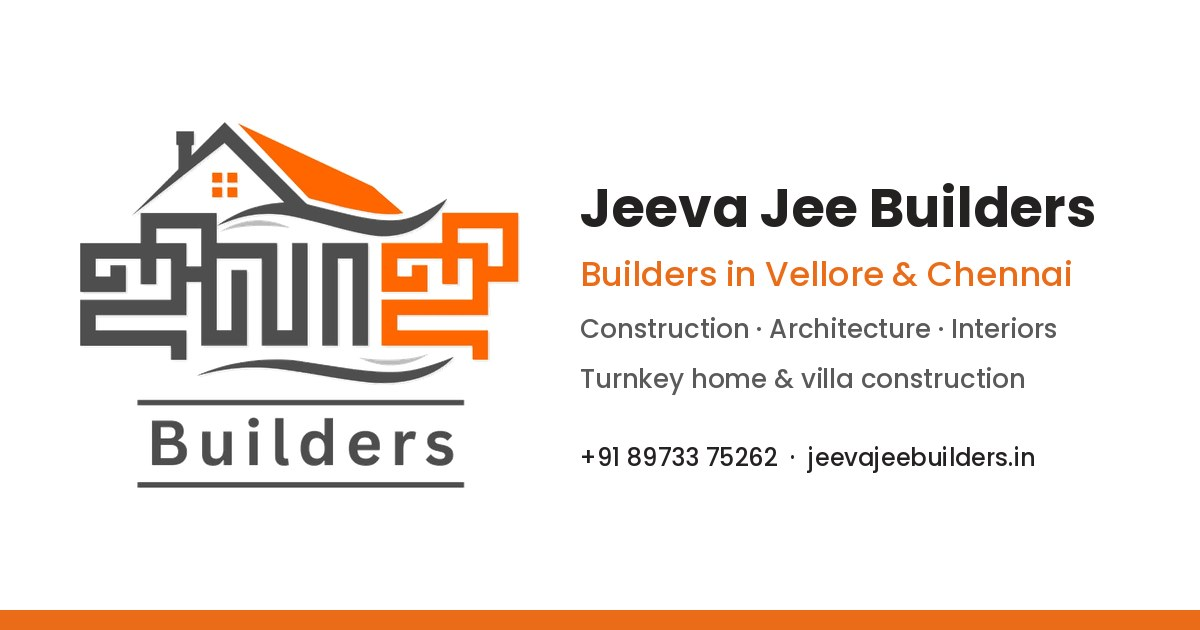
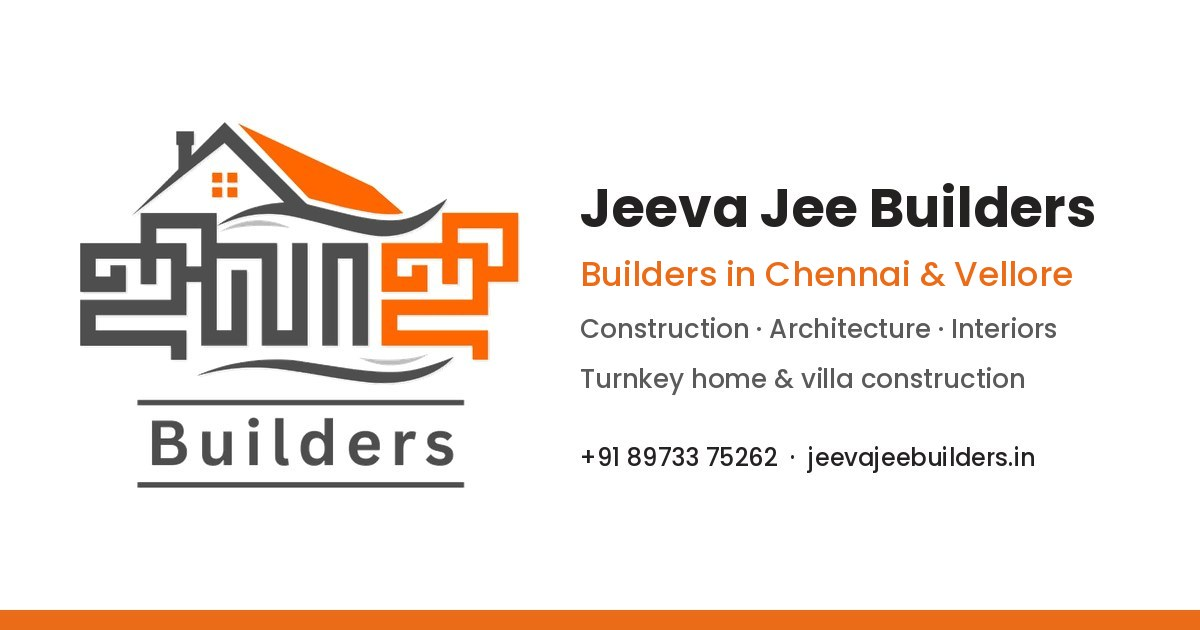
Add files via upload

Changed region(s): [[0.6167, 0.3921, 0.8942, 0.4524]]

diff --git a/index.html b/index.html
@@ -3,30 +3,30 @@
 <head>
 <meta charset="UTF-8">
 <meta name="viewport" content="width=device-width, initial-scale=1.0">
-<title>Jeeva Jee Builders | Vellore Builders &amp; Chennai Builders — Construction &amp; Interiors</title>
-<meta name="description" content="Jeeva Jee Builders — trusted builders in Vellore &amp; Chennai with 16+ years experience. House, villa &amp; apartment construction, architectural design, interiors and turnkey projects across Tamil Nadu.">
-<meta name="keywords" content="Vellore Builders, Chennai Builders, Jeeva Jee Builders, builders in Vellore, builders in Chennai, construction company in Vellore, construction company in Chennai, building contractors in Vellore, building contractors in Chennai, house construction in Vellore, house construction in Chennai, individual house construction, villa construction, apartment construction, turnkey construction Tamil Nadu, architectural design, interior design Vellore, interior design Chennai, renovation contractors, electrical and plumbing works, construction consulting, residential construction, commercial construction, Tamil Nadu builders, Jeeva Venkatesan, Twinsun Builders, Surya Constructions">
+<title>Jeeva Jee Builders | Chennai Builders &amp; Vellore Builders — Construction &amp; Interiors</title>
+<meta name="description" content="Jeeva Jee Builders — trusted builders in Chennai &amp; Vellore with 16+ years experience. House, villa &amp; apartment construction, architectural design, interiors and turnkey projects across Tamil Nadu.">
+<meta name="keywords" content="Chennai Builders, Vellore Builders, Jeeva Jee Builders, builders in Chennai, builders in Vellore, construction company in Chennai, construction company in Vellore, building contractors in Chennai, building contractors in Vellore, house construction in Chennai, house construction in Vellore, individual house construction, villa construction, apartment construction, turnkey construction Tamil Nadu, architectural design, interior design Chennai, interior design Vellore, renovation contractors, electrical and plumbing works, construction consulting, residential construction, commercial construction, Tamil Nadu builders, Jeeva Venkatesan, Twinsun Builders, Surya Constructions">
 <meta name="author" content="Jeeva Jee Builders">
 <meta name="robots" content="index, follow, max-image-preview:large">
 <link rel="canonical" href="https://jeevajeebuilders.in/">
 
 <!-- Local SEO -->
 <meta name="geo.region" content="IN-TN">
-<meta name="geo.placename" content="Vellore, Chennai, Tamil Nadu">
+<meta name="geo.placename" content="Chennai, Vellore, Tamil Nadu">
 
 <!-- Open Graph (WhatsApp / Facebook share preview) -->
 <meta property="og:type" content="website">
 <meta property="og:site_name" content="Jeeva Jee Builders">
 <meta property="og:locale" content="en_IN">
-<meta property="og:title" content="Jeeva Jee Builders | Vellore Builders &amp; Chennai Builders — Construction &amp; Interiors">
-<meta property="og:description" content="Jeeva Jee Builders — trusted builders in Vellore &amp; Chennai with 16+ years experience. House, villa &amp; apartment construction, architectural design, interiors and turnkey projects across Tamil Nadu.">
+<meta property="og:title" content="Jeeva Jee Builders | Chennai Builders &amp; Vellore Builders — Construction &amp; Interiors">
+<meta property="og:description" content="Jeeva Jee Builders — trusted builders in Chennai &amp; Vellore with 16+ years experience. House, villa &amp; apartment construction, architectural design, interiors and turnkey projects across Tamil Nadu.">
 <meta property="og:url" content="https://jeevajeebuilders.in/">
 <meta property="og:image" content="https://jeevajeebuilders.in/og-image.jpg">
 <meta property="og:image:width" content="1200">
 <meta property="og:image:height" content="630">
 <meta name="twitter:card" content="summary_large_image">
-<meta name="twitter:title" content="Jeeva Jee Builders | Vellore Builders &amp; Chennai Builders — Construction &amp; Interiors">
-<meta name="twitter:description" content="Jeeva Jee Builders — trusted builders in Vellore &amp; Chennai with 16+ years experience. House, villa &amp; apartment construction, architectural design, interiors and turnkey projects across Tamil Nadu.">
+<meta name="twitter:title" content="Jeeva Jee Builders | Chennai Builders &amp; Vellore Builders — Construction &amp; Interiors">
+<meta name="twitter:description" content="Jeeva Jee Builders — trusted builders in Chennai &amp; Vellore with 16+ years experience. House, villa &amp; apartment construction, architectural design, interiors and turnkey projects across Tamil Nadu.">
 <meta name="twitter:image" content="https://jeevajeebuilders.in/og-image.jpg">
 
 <!-- Favicon / browser tab icon -->
@@ -48,7 +48,7 @@
     "url": "https://jeevajeebuilders.in/",
     "logo": "https://jeevajeebuilders.in/assets/logo.png",
     "image": "https://jeevajeebuilders.in/og-image.jpg",
-    "description": "Builders in Vellore and Chennai offering house, villa and apartment construction, architectural design, interior design, renovations and turnkey projects across Tamil Nadu.",
+    "description": "Builders in Chennai and Vellore offering house, villa and apartment construction, architectural design, interior design, renovations and turnkey projects across Tamil Nadu.",
     "telephone": "+91 89733 75262",
     "priceRange": "₹1999 - ₹2599 per sq.ft",
     "founder": {
@@ -64,11 +64,11 @@
     "areaServed": [
       {
         "@type": "City",
-        "name": "Vellore"
+        "name": "Chennai"
       },
       {
         "@type": "City",
-        "name": "Chennai"
+        "name": "Vellore"
       },
       {
         "@type": "State",

diff --git a/packages.html b/packages.html
@@ -3,30 +3,30 @@
 <head>
 <meta charset="UTF-8">
 <meta name="viewport" content="width=device-width, initial-scale=1.0">
-<title>Construction Packages &amp; Cost per Sq.ft | Jeeva Jee Builders — Vellore &amp; Chennai</title>
-<meta name="description" content="Jeeva Jee Builders construction packages for Vellore &amp; Chennai — Basic ₹1,999, Standard ₹2,199, Premium ₹2,599 per sq.ft with full material-wise inclusions and brands.">
-<meta name="keywords" content="Vellore Builders, Chennai Builders, Jeeva Jee Builders, construction packages Vellore, construction packages Chennai, construction cost per sq ft Vellore, construction cost per sq ft Chennai, house construction cost Tamil Nadu, basic standard premium construction package, builder pricing Chennai, affordable house construction, premium villa construction, turnkey house construction package">
+<title>Construction Packages &amp; Cost per Sq.ft | Jeeva Jee Builders — Chennai &amp; Vellore</title>
+<meta name="description" content="Jeeva Jee Builders construction packages for Chennai &amp; Vellore — Basic ₹1,999, Standard ₹2,199, Premium ₹2,599 per sq.ft with full material-wise inclusions and brands.">
+<meta name="keywords" content="Chennai Builders, Vellore Builders, Jeeva Jee Builders, construction packages Chennai, construction packages Vellore, construction cost per sq ft Chennai, construction cost per sq ft Vellore, house construction cost Tamil Nadu, basic standard premium construction package, builder pricing Chennai, affordable house construction, premium villa construction, turnkey house construction package">
 <meta name="author" content="Jeeva Jee Builders">
 <meta name="robots" content="index, follow, max-image-preview:large">
 <link rel="canonical" href="https://jeevajeebuilders.in/packages.html">
 
 <!-- Local SEO -->
 <meta name="geo.region" content="IN-TN">
-<meta name="geo.placename" content="Vellore, Chennai, Tamil Nadu">
+<meta name="geo.placename" content="Chennai, Vellore, Tamil Nadu">
 
 <!-- Open Graph (WhatsApp / Facebook share preview) -->
 <meta property="og:type" content="website">
 <meta property="og:site_name" content="Jeeva Jee Builders">
 <meta property="og:locale" content="en_IN">
-<meta property="og:title" content="Construction Packages &amp; Cost per Sq.ft | Jeeva Jee Builders — Vellore &amp; Chennai">
-<meta property="og:description" content="Jeeva Jee Builders construction packages for Vellore &amp; Chennai — Basic ₹1,999, Standard ₹2,199, Premium ₹2,599 per sq.ft with full material-wise inclusions and brands.">
+<meta property="og:title" content="Construction Packages &amp; Cost per Sq.ft | Jeeva Jee Builders — Chennai &amp; Vellore">
+<meta property="og:description" content="Jeeva Jee Builders construction packages for Chennai &amp; Vellore — Basic ₹1,999, Standard ₹2,199, Premium ₹2,599 per sq.ft with full material-wise inclusions and brands.">
 <meta property="og:url" content="https://jeevajeebuilders.in/packages.html">
 <meta property="og:image" content="https://jeevajeebuilders.in/og-image.jpg">
 <meta property="og:image:width" content="1200">
 <meta property="og:image:height" content="630">
 <meta name="twitter:card" content="summary_large_image">
-<meta name="twitter:title" content="Construction Packages &amp; Cost per Sq.ft | Jeeva Jee Builders — Vellore &amp; Chennai">
-<meta name="twitter:description" content="Jeeva Jee Builders construction packages for Vellore &amp; Chennai — Basic ₹1,999, Standard ₹2,199, Premium ₹2,599 per sq.ft with full material-wise inclusions and brands.">
+<meta name="twitter:title" content="Construction Packages &amp; Cost per Sq.ft | Jeeva Jee Builders — Chennai &amp; Vellore">
+<meta name="twitter:description" content="Jeeva Jee Builders construction packages for Chennai &amp; Vellore — Basic ₹1,999, Standard ₹2,199, Premium ₹2,599 per sq.ft with full material-wise inclusions and brands.">
 <meta name="twitter:image" content="https://jeevajeebuilders.in/og-image.jpg">
 
 <!-- Favicon / browser tab icon -->
@@ -48,7 +48,7 @@
     "url": "https://jeevajeebuilders.in/",
     "logo": "https://jeevajeebuilders.in/assets/logo.png",
     "image": "https://jeevajeebuilders.in/og-image.jpg",
-    "description": "Builders in Vellore and Chennai offering house, villa and apartment construction, architectural design, interior design, renovations and turnkey projects across Tamil Nadu.",
+    "description": "Builders in Chennai and Vellore offering house, villa and apartment construction, architectural design, interior design, renovations and turnkey projects across Tamil Nadu.",
     "telephone": "+91 89733 75262",
     "priceRange": "₹1999 - ₹2599 per sq.ft",
     "founder": {
@@ -64,11 +64,11 @@
     "areaServed": [
       {
         "@type": "City",
-        "name": "Vellore"
+        "name": "Chennai"
       },
       {
         "@type": "City",
-        "name": "Chennai"
+        "name": "Vellore"
       },
       {
         "@type": "State",

diff --git a/calculator.html b/calculator.html
@@ -3,30 +3,30 @@
 <head>
 <meta charset="UTF-8">
 <meta name="viewport" content="width=device-width, initial-scale=1.0">
-<title>Construction Cost Calculator | Jeeva Jee Builders — Vellore &amp; Chennai Builders</title>
-<meta name="description" content="Free house construction cost calculator from Jeeva Jee Builders, builders in Vellore &amp; Chennai. Estimate your building cost per sq.ft across Basic, Standard and Premium packages.">
-<meta name="keywords" content="Vellore Builders, Chennai Builders, Jeeva Jee Builders, construction cost calculator, house construction cost calculator Chennai, building cost estimator Vellore, construction cost per sq ft Tamil Nadu, home building cost estimate, house construction cost Vellore, house construction cost Chennai">
+<title>Construction Cost Calculator | Jeeva Jee Builders — Chennai &amp; Vellore Builders</title>
+<meta name="description" content="Free house construction cost calculator from Jeeva Jee Builders, builders in Chennai &amp; Vellore. Estimate your building cost per sq.ft across Basic, Standard and Premium packages.">
+<meta name="keywords" content="Chennai Builders, Vellore Builders, Jeeva Jee Builders, construction cost calculator, house construction cost calculator Chennai, building cost estimator Vellore, construction cost per sq ft Tamil Nadu, home building cost estimate, house construction cost Chennai, house construction cost Vellore">
 <meta name="author" content="Jeeva Jee Builders">
 <meta name="robots" content="index, follow, max-image-preview:large">
 <link rel="canonical" href="https://jeevajeebuilders.in/calculator.html">
 
 <!-- Local SEO -->
 <meta name="geo.region" content="IN-TN">
-<meta name="geo.placename" content="Vellore, Chennai, Tamil Nadu">
+<meta name="geo.placename" content="Chennai, Vellore, Tamil Nadu">
 
 <!-- Open Graph (WhatsApp / Facebook share preview) -->
 <meta property="og:type" content="website">
 <meta property="og:site_name" content="Jeeva Jee Builders">
 <meta property="og:locale" content="en_IN">
-<meta property="og:title" content="Construction Cost Calculator | Jeeva Jee Builders — Vellore &amp; Chennai Builders">
-<meta property="og:description" content="Free house construction cost calculator from Jeeva Jee Builders, builders in Vellore &amp; Chennai. Estimate your building cost per sq.ft across Basic, Standard and Premium packages.">
+<meta property="og:title" content="Construction Cost Calculator | Jeeva Jee Builders — Chennai &amp; Vellore Builders">
+<meta property="og:description" content="Free house construction cost calculator from Jeeva Jee Builders, builders in Chennai &amp; Vellore. Estimate your building cost per sq.ft across Basic, Standard and Premium packages.">
 <meta property="og:url" content="https://jeevajeebuilders.in/calculator.html">
 <meta property="og:image" content="https://jeevajeebuilders.in/og-image.jpg">
 <meta property="og:image:width" content="1200">
 <meta property="og:image:height" content="630">
 <meta name="twitter:card" content="summary_large_image">
-<meta name="twitter:title" content="Construction Cost Calculator | Jeeva Jee Builders — Vellore &amp; Chennai Builders">
-<meta name="twitter:description" content="Free house construction cost calculator from Jeeva Jee Builders, builders in Vellore &amp; Chennai. Estimate your building cost per sq.ft across Basic, Standard and Premium packages.">
+<meta name="twitter:title" content="Construction Cost Calculator | Jeeva Jee Builders — Chennai &amp; Vellore Builders">
+<meta name="twitter:description" content="Free house construction cost calculator from Jeeva Jee Builders, builders in Chennai &amp; Vellore. Estimate your building cost per sq.ft across Basic, Standard and Premium packages.">
 <meta name="twitter:image" content="https://jeevajeebuilders.in/og-image.jpg">
 
 <!-- Favicon / browser tab icon -->
@@ -48,7 +48,7 @@
     "url": "https://jeevajeebuilders.in/",
     "logo": "https://jeevajeebuilders.in/assets/logo.png",
     "image": "https://jeevajeebuilders.in/og-image.jpg",
-    "description": "Builders in Vellore and Chennai offering house, villa and apartment construction, architectural design, interior design, renovations and turnkey projects across Tamil Nadu.",
+    "description": "Builders in Chennai and Vellore offering house, villa and apartment construction, architectural design, interior design, renovations and turnkey projects across Tamil Nadu.",
     "telephone": "+91 89733 75262",
     "priceRange": "₹1999 - ₹2599 per sq.ft",
     "founder": {
@@ -64,11 +64,11 @@
     "areaServed": [
       {
         "@type": "City",
-        "name": "Vellore"
+        "name": "Chennai"
       },
       {
         "@type": "City",
-        "name": "Chennai"
+        "name": "Vellore"
       },
       {
         "@type": "State",

diff --git a/projects.html b/projects.html
@@ -3,30 +3,30 @@
 <head>
 <meta charset="UTF-8">
 <meta name="viewport" content="width=device-width, initial-scale=1.0">
-<title>Our Projects | Jeeva Jee Builders — Construction, Interiors &amp; Elevation in Vellore &amp; Chennai</title>
-<meta name="description" content="See Jeeva Jee Builders projects — house construction, interior design and elevation design work by trusted builders in Vellore &amp; Chennai, Tamil Nadu.">
-<meta name="keywords" content="Vellore Builders, Chennai Builders, Jeeva Jee Builders, Jeeva Jee Builders projects, construction projects Vellore, construction projects Chennai, interior design portfolio, elevation design Chennai, elevation design Vellore, house design gallery, completed house projects Tamil Nadu">
+<title>Our Projects | Jeeva Jee Builders — Construction, Interiors &amp; Elevation in Chennai &amp; Vellore</title>
+<meta name="description" content="See Jeeva Jee Builders projects — house construction, interior design and elevation design work by trusted builders in Chennai &amp; Vellore, Tamil Nadu.">
+<meta name="keywords" content="Chennai Builders, Vellore Builders, Jeeva Jee Builders, Jeeva Jee Builders projects, construction projects Chennai, construction projects Vellore, interior design portfolio, elevation design Chennai, elevation design Vellore, house design gallery, completed house projects Tamil Nadu">
 <meta name="author" content="Jeeva Jee Builders">
 <meta name="robots" content="index, follow, max-image-preview:large">
 <link rel="canonical" href="https://jeevajeebuilders.in/projects.html">
 
 <!-- Local SEO -->
 <meta name="geo.region" content="IN-TN">
-<meta name="geo.placename" content="Vellore, Chennai, Tamil Nadu">
+<meta name="geo.placename" content="Chennai, Vellore, Tamil Nadu">
 
 <!-- Open Graph (WhatsApp / Facebook share preview) -->
 <meta property="og:type" content="website">
 <meta property="og:site_name" content="Jeeva Jee Builders">
 <meta property="og:locale" content="en_IN">
-<meta property="og:title" content="Our Projects | Jeeva Jee Builders — Construction, Interiors &amp; Elevation in Vellore &amp; Chennai">
-<meta property="og:description" content="See Jeeva Jee Builders projects — house construction, interior design and elevation design work by trusted builders in Vellore &amp; Chennai, Tamil Nadu.">
+<meta property="og:title" content="Our Projects | Jeeva Jee Builders — Construction, Interiors &amp; Elevation in Chennai &amp; Vellore">
+<meta property="og:description" content="See Jeeva Jee Builders projects — house construction, interior design and elevation design work by trusted builders in Chennai &amp; Vellore, Tamil Nadu.">
 <meta property="og:url" content="https://jeevajeebuilders.in/projects.html">
 <meta property="og:image" content="https://jeevajeebuilders.in/og-image.jpg">
 <meta property="og:image:width" content="1200">
 <meta property="og:image:height" content="630">
 <meta name="twitter:card" content="summary_large_image">
-<meta name="twitter:title" content="Our Projects | Jeeva Jee Builders — Construction, Interiors &amp; Elevation in Vellore &amp; Chennai">
-<meta name="twitter:description" content="See Jeeva Jee Builders projects — house construction, interior design and elevation design work by trusted builders in Vellore &amp; Chennai, Tamil Nadu.">
+<meta name="twitter:title" content="Our Projects | Jeeva Jee Builders — Construction, Interiors &amp; Elevation in Chennai &amp; Vellore">
+<meta name="twitter:description" content="See Jeeva Jee Builders projects — house construction, interior design and elevation design work by trusted builders in Chennai &amp; Vellore, Tamil Nadu.">
 <meta name="twitter:image" content="https://jeevajeebuilders.in/og-image.jpg">
 
 <!-- Favicon / browser tab icon -->
@@ -48,7 +48,7 @@
     "url": "https://jeevajeebuilders.in/",
     "logo": "https://jeevajeebuilders.in/assets/logo.png",
     "image": "https://jeevajeebuilders.in/og-image.jpg",
-    "description": "Builders in Vellore and Chennai offering house, villa and apartment construction, architectural design, interior design, renovations and turnkey projects across Tamil Nadu.",
+    "description": "Builders in Chennai and Vellore offering house, villa and apartment construction, architectural design, interior design, renovations and turnkey projects across Tamil Nadu.",
     "telephone": "+91 89733 75262",
     "priceRange": "₹1999 - ₹2599 per sq.ft",
     "founder": {
@@ -64,11 +64,11 @@
     "areaServed": [
       {
         "@type": "City",
-        "name": "Vellore"
+        "name": "Chennai"
       },
       {
         "@type": "City",
-        "name": "Chennai"
+        "name": "Vellore"
       },
       {
         "@type": "State",
